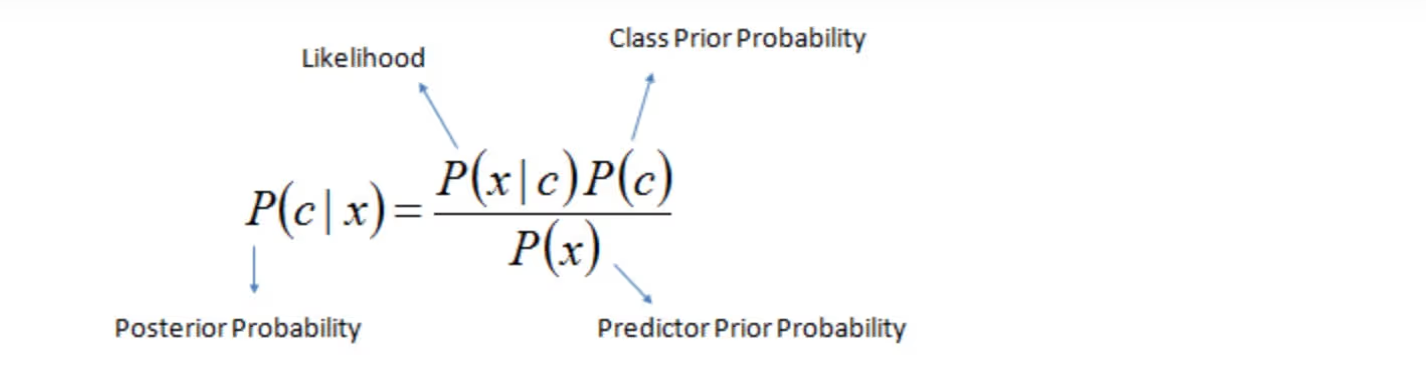
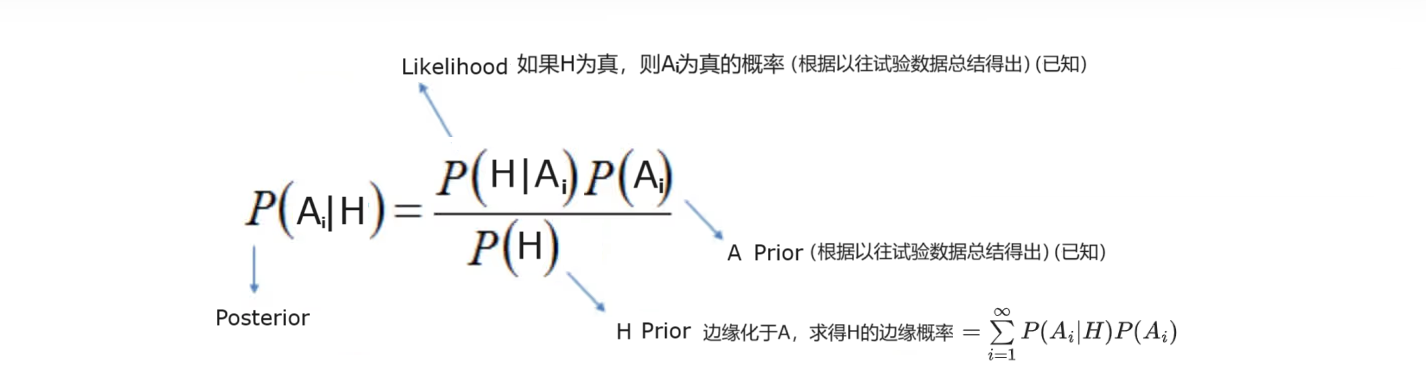
fix basis

diff --git a/docs/Statistics/Basis.md b/docs/Statistics/Basis.md
@@ -64,10 +64,11 @@ table th:nth-of-type(5) {
     - $P(A \cup B) = P(A) + P(B) - P(A,B)$
 * **条件概率** $P(A|B)$：Given B 时，事件A发生的概率
     - $P(A,B) = P(A|B)P(B) = P(B|A)P(A)$
-* 贝叶斯法则：通过已知的概率计算未知条件概率
+* 贝叶斯法则：通过先验概率计算未知条件概率
     ![](./Basis/3-1.png) 
-    - 先验概率：不依靠观测数据的概率分布
+    - 先验概率：不依靠观测数据的概率分布（已知）
     - 后验概率：基于观测数据得到的条件概率
+    - 带有一些因果关系的意味，所以有别于普通的条件概率表达式，先验后验不能颠倒
 
 * 从N中一次取n的不同**排列**个数：$A_N^n=N(N-1)...(N-n+1)=\frac{N!}{(N-n)!}$
 * 从N中一次取n的不同**组合**个数：$C_N^n=\binom{N}{n}=\frac{N!}{n!(N-n)!}$
